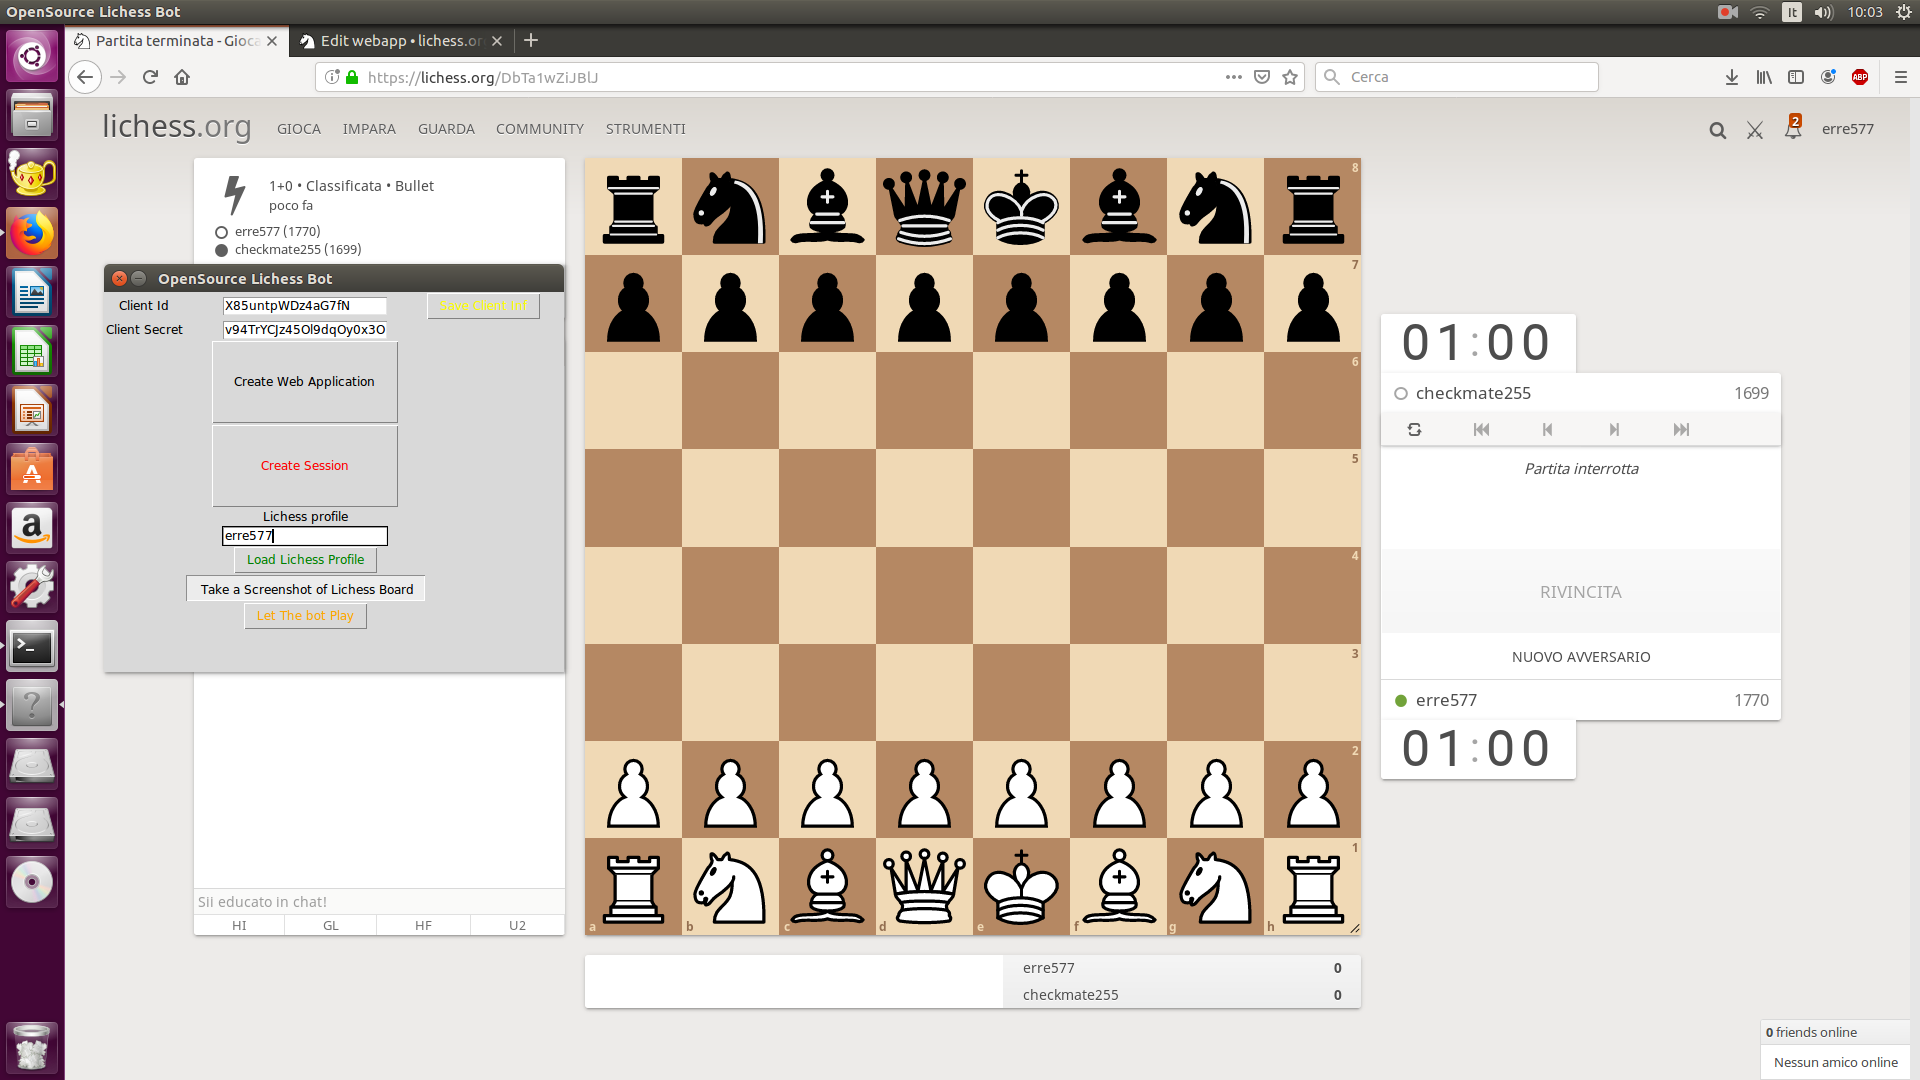
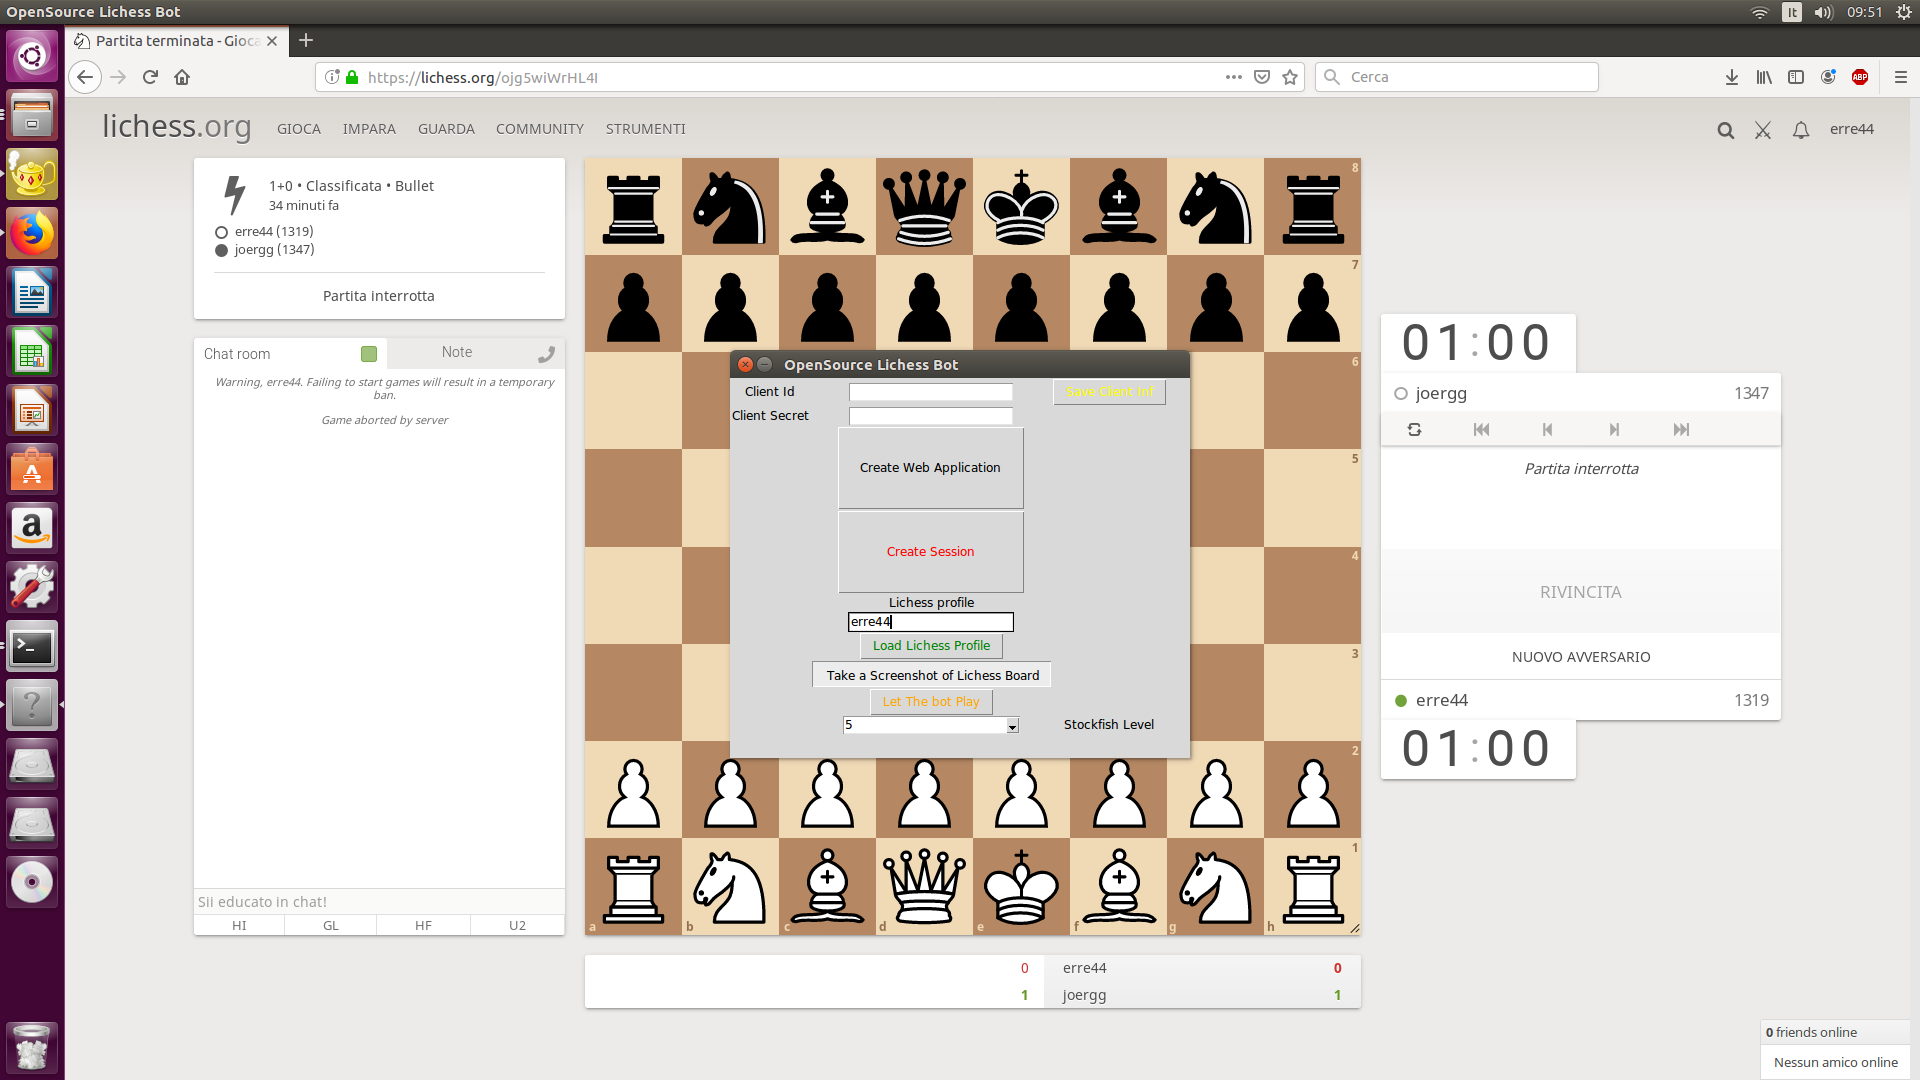
up

diff --git a/src/interface.py b/src/interface.py
@@ -38,8 +38,10 @@ def center_window(root,w=300, h=200):
     y = (hs/2) - (h/2)
     root.geometry('%dx%d+%d+%d' % (w, h, x, y))
 
-def threaded_function2(combo):
-    
+def threaded_function2(lista):
+    combo = lista[0]
+    combo2 = lista[1]
+    combo3 = lista[2]
     global pid
     pid = os.getpid()
     global there_is_session
@@ -82,7 +84,10 @@ def threaded_function2(combo):
         engine = 'stockfish_9_x64'
     elif(s == '10'):
         engine = 'stockfish_10_x64_modern'
-        
+    
+    depth = (int)(combo2.get())
+    sec = (float)(combo3.get())
+    
     p = Popen("../bin/"+engine, stdout=PIPE, stdin=PIPE, universal_newlines=True)
     stockfish10.get(p, verbose=True)
     stockfish10.putget(p, 'uci')
@@ -163,16 +168,16 @@ def threaded_function2(combo):
                             
                     if(isMyTurn == True):
                         stockfish10.put(p,l)
-                        #print(l)
-                        new_pos = stockfish10.go(p, depth=20, t=0.03)[9:13]
-                        #print(xy)
+                        print(l)
+                        new_pos = stockfish10.go(p, depth=depth, t=sec)[9:13]
+                        print(xy)
                         mouse.click_somewhere(xy,new_pos,color)
                         if(new_move or l == 'position startpos moves'):
                             reminder = new_pos
                             new_move = 0
-                        #print(new_pos)
+                        print(new_pos)
             except:
-                #print("entro")
+                print("entro")
                 l = 'position startpos moves'
                 move = '-10'
                 move_counter = 0
@@ -208,7 +213,7 @@ if __name__ == "__main__":
     
     window = tkinter.Tk()
     window.title("OpenSource Lichess Bot")
-    center_window(window,460,380)
+    center_window(window,460,400)
     window.resizable(0, 0)
     
     #top_frame = tkinter.Frame(window).pack()
@@ -245,8 +250,18 @@ if __name__ == "__main__":
     combo.current(1)
     combo.grid(column=1, row=60)
     tkinter.Label(window, text = "Stockfish Level").grid(row = 60,column = 2)
-    
-    thread = Thread(target = threaded_function2,args = (combo, ))
+    combo2 = ttk.Combobox(window)
+    combo2['values']= (1,2,3,5,10,15,20)
+    combo2.current(1)
+    combo2.grid(column=1, row=70)
+    tkinter.Label(window, text = "Depth").grid(row = 70,column = 2)
+    combo3 = ttk.Combobox(window)
+    combo3['values']= (0.01,0.03,0.05,0.1,1,5,10,30,60,120,300,600)
+    combo3.current(1)
+    combo3.grid(column=1, row=80)
+    tkinter.Label(window, text = "Seconds").grid(row = 80,column = 2)
+    lista = [combo,combo2,combo3]
+    thread = Thread(target = threaded_function2,args = (lista, ))
     thread.start()
     window.mainloop()
     if(pid != None):

diff --git a/src/stockfish10.py b/src/stockfish10.py
@@ -35,5 +35,3 @@ def go(p, depth=None, t=1.0, dt=0.05, verbose=False):
         if not stopped and time.time() - t0 > t:
             put(p, "stop")
             stopped = True
-
-
